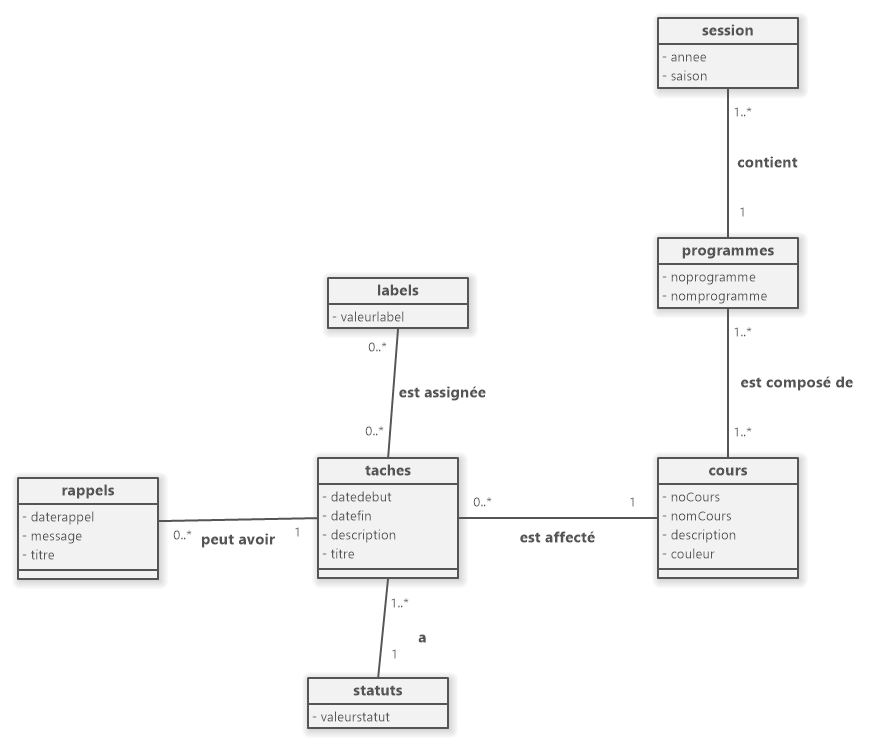
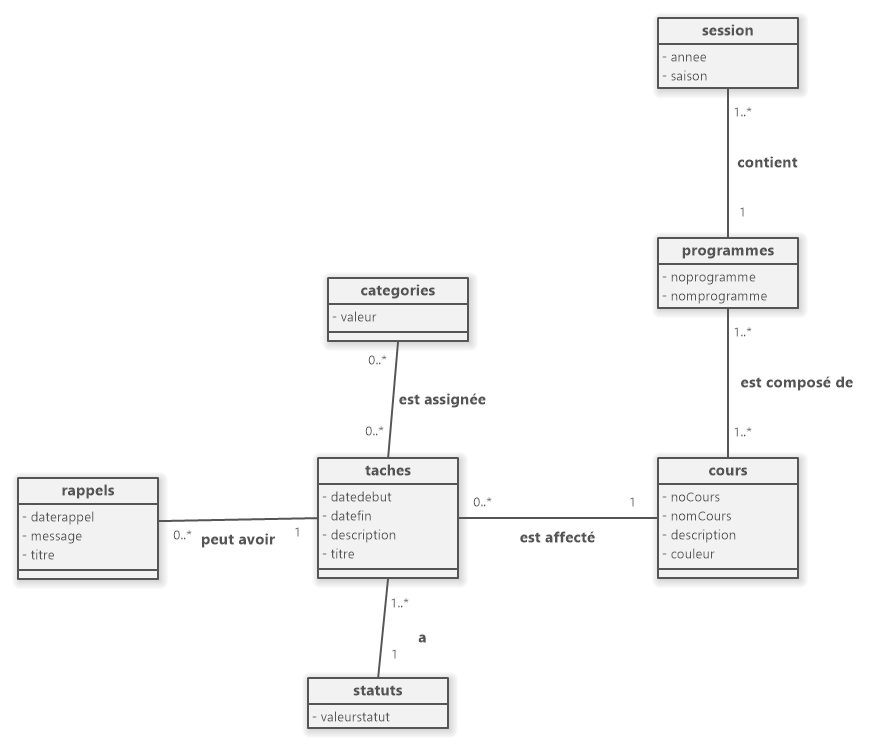
Renommé table label pour categories
Actualisé les champs correspondant dans les autres tables

Changed region(s): [[0.3678, 0.369, 0.5516, 0.5535]]

diff --git a/Developpement/OrganisateurScolaire/DAL/Factory/FactoryBase.cs b/Developpement/OrganisateurScolaire/DAL/Factory/FactoryBase.cs
@@ -1,0 +1,12 @@
+using System;
+using System.Collections.Generic;
+using System.Linq;
+using System.Text;
+using System.Threading.Tasks;
+
+namespace OrganisateurScolaire.DAL.Factory
+{
+    class FactoryBase
+    {
+    }
+}
